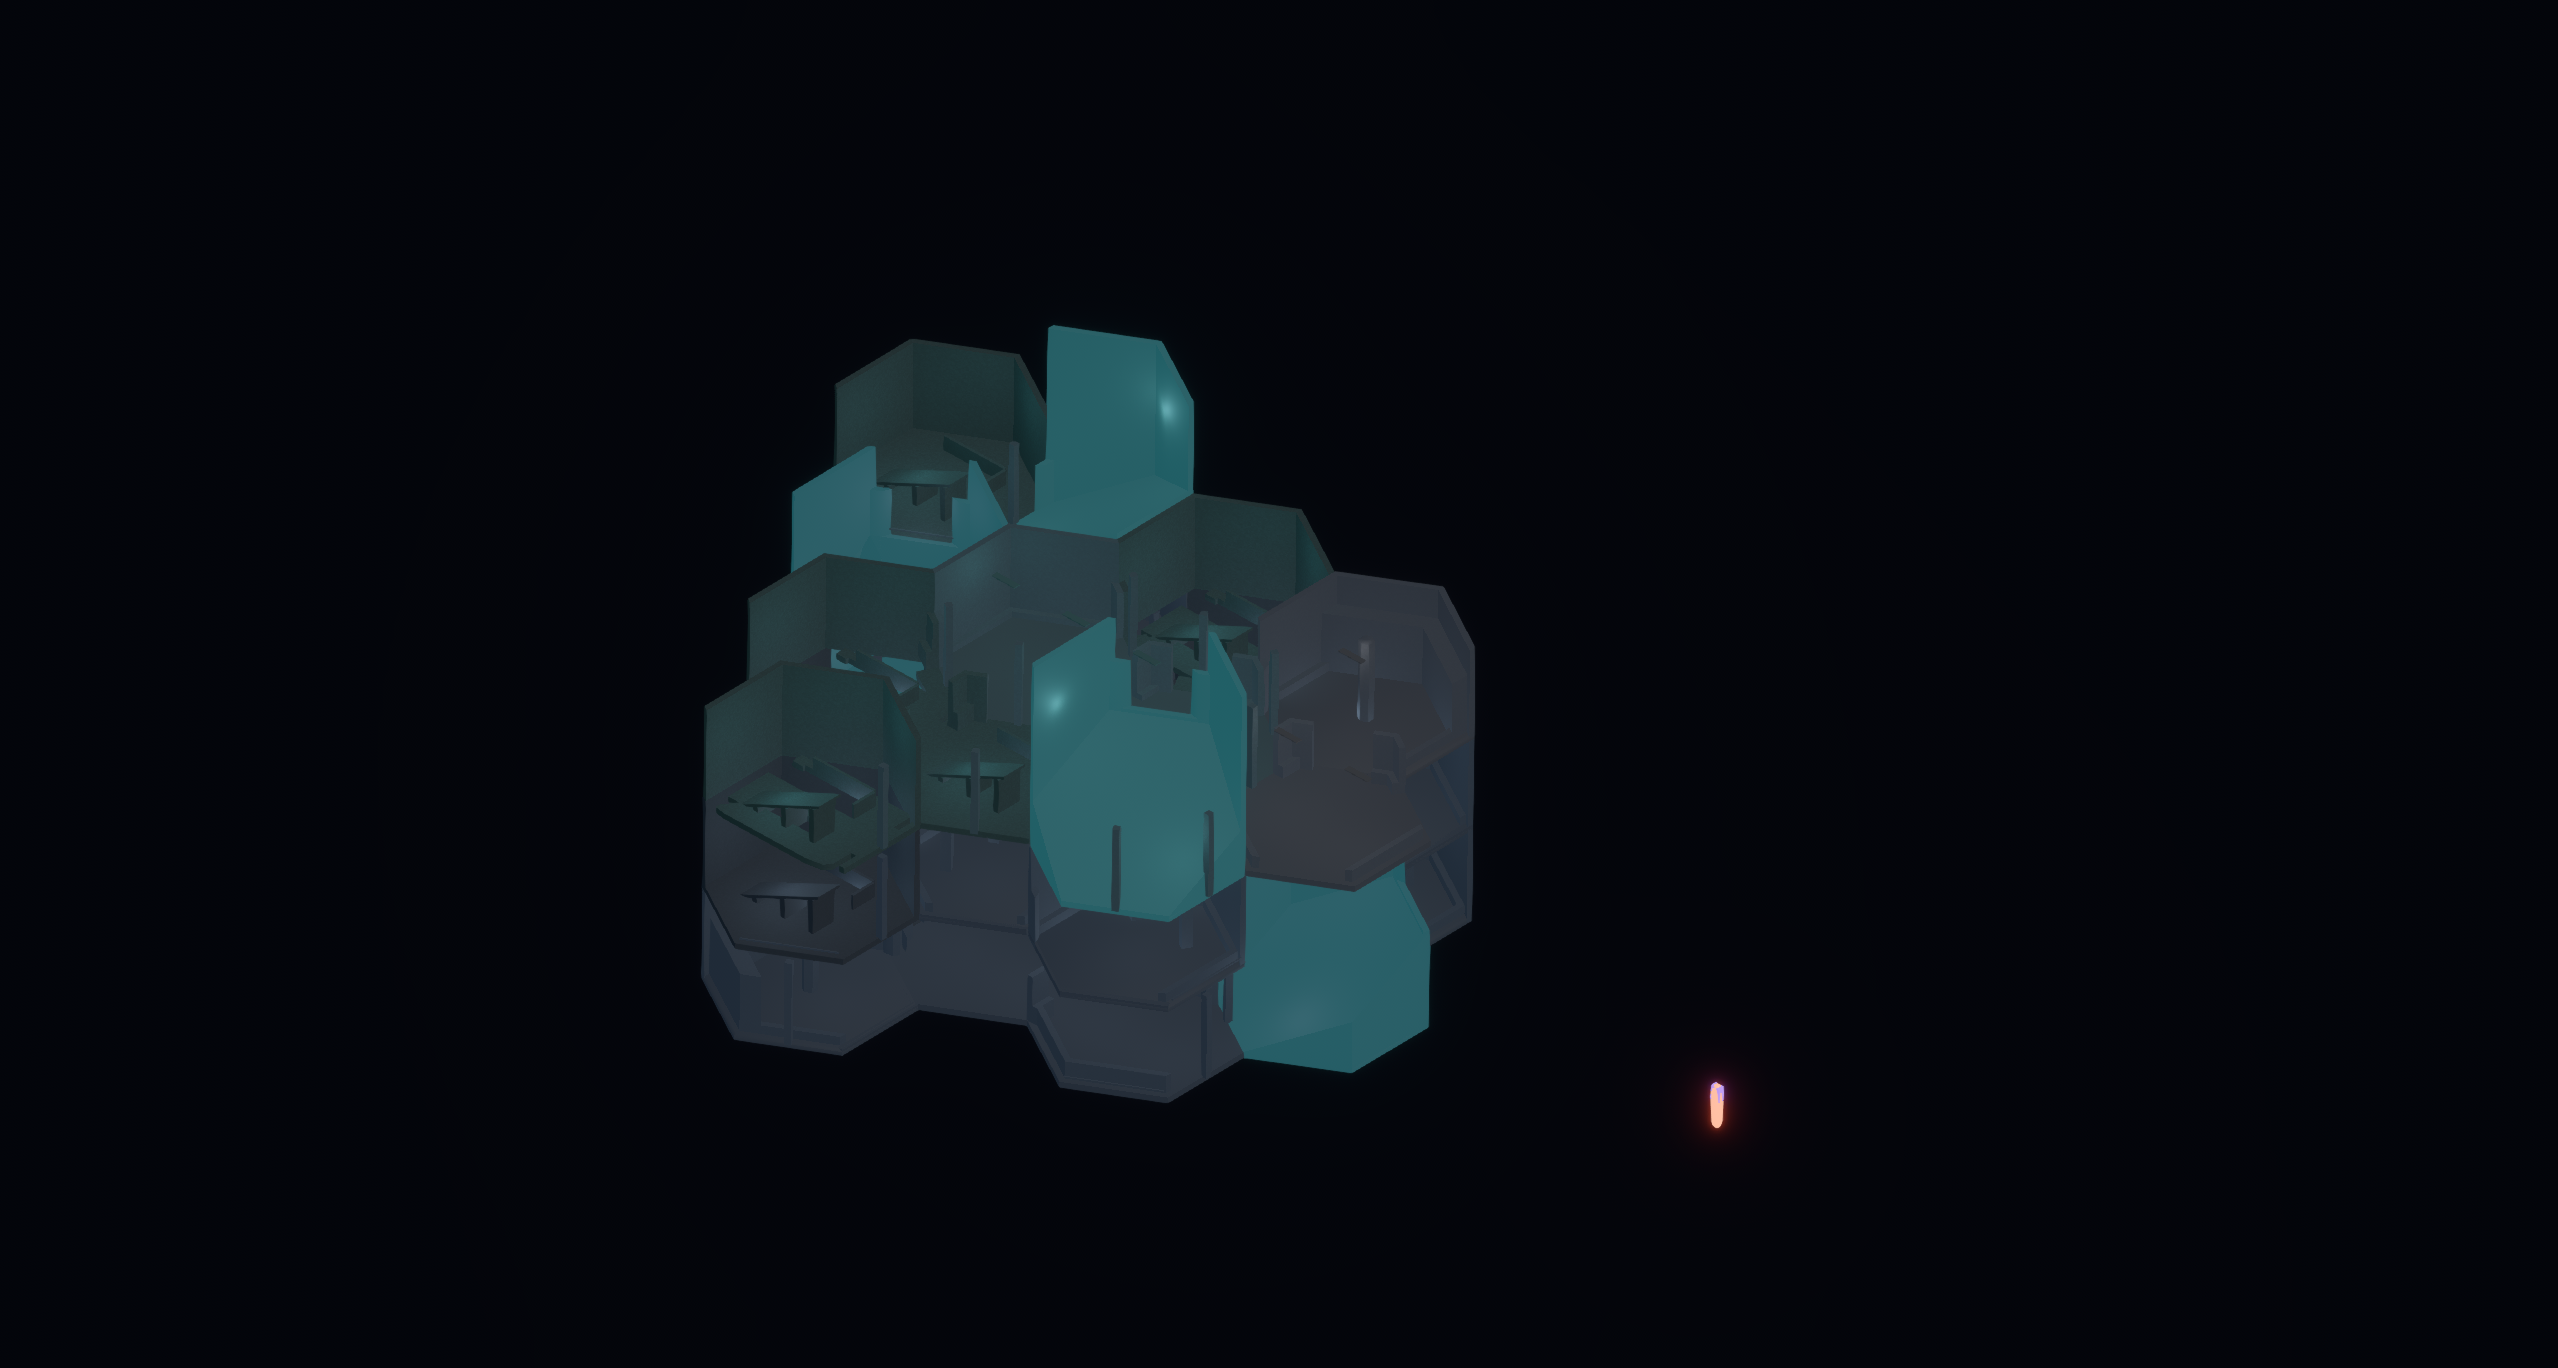
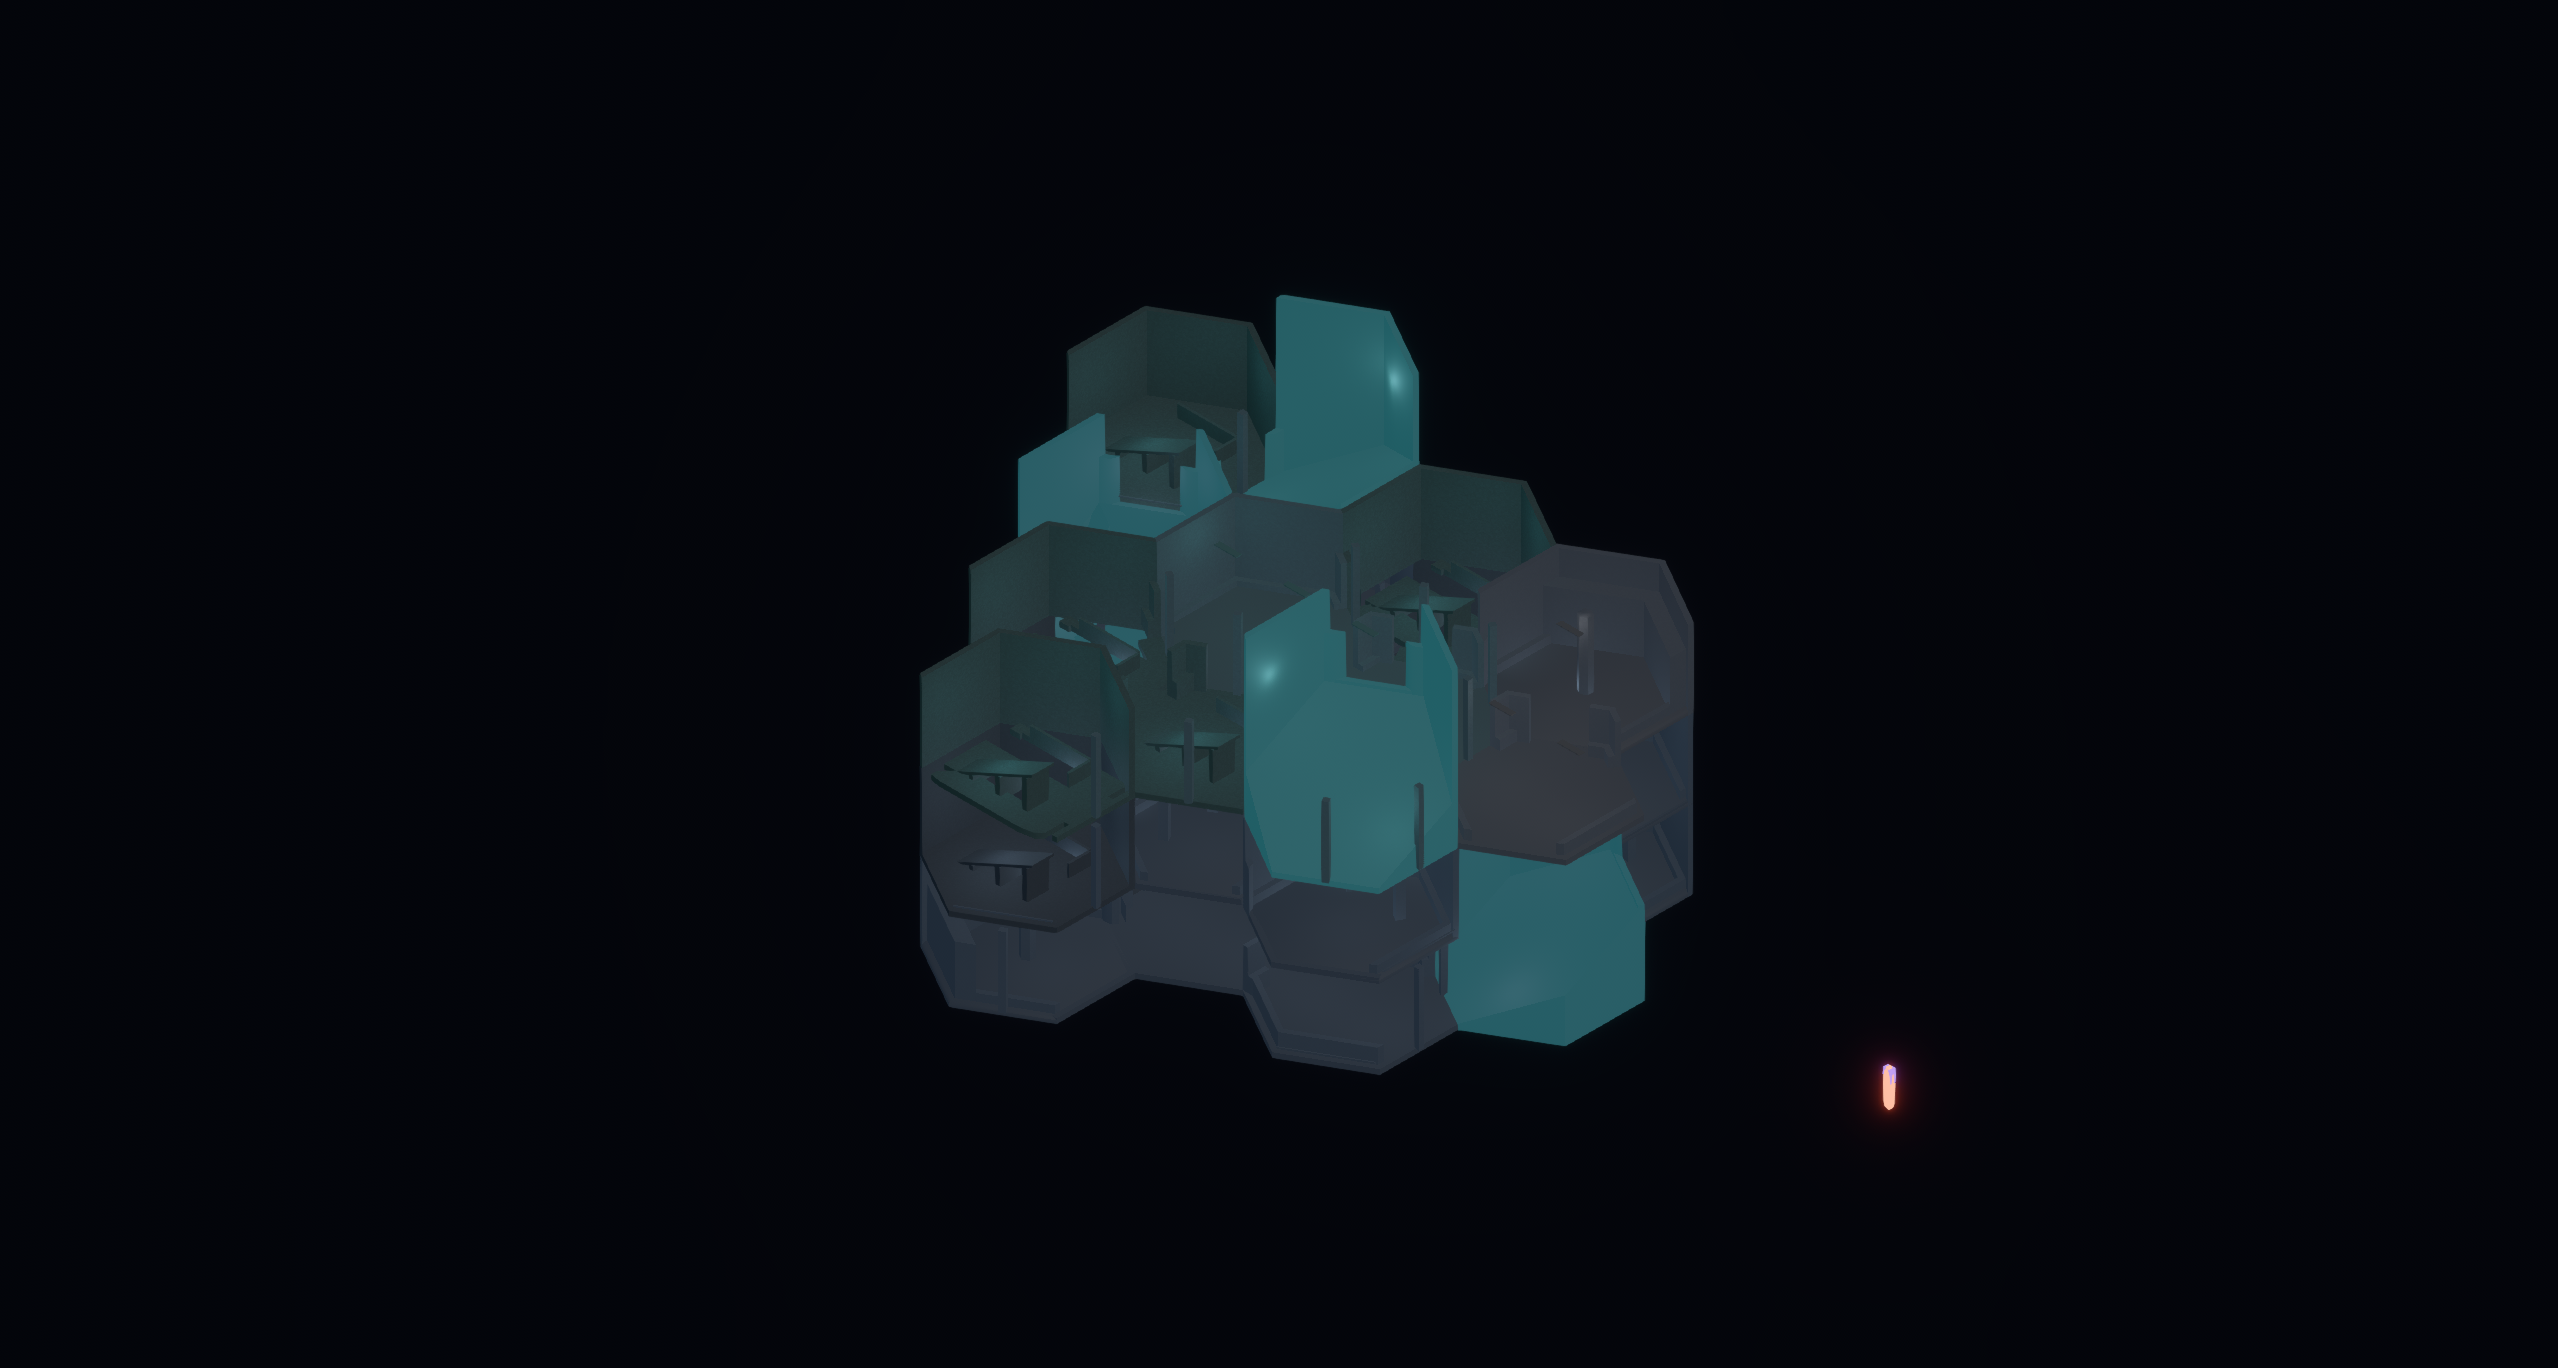
fix(hex): snap the camera into the overview instead of easing across the room
The facility sat off-centre because the camera was still travelling. Easing is
right for following a body and for turning a detent; it is wrong for the mode
change, where the play pose and the overview pose are hundreds of metres apart.
At 2.5 per second the camera was still ~50 m short a second after the overview
opened, and 50 m at this scale is most of a screen.

It now snaps on the way in and on the way out, and eases only within the
overview. The subject lands centred, which is what "follows the selected
player" is supposed to look like.

Evidence refreshed: docs/evidence/spectate/overview_tiles_cutaway.png.

clippy 0, 1727 passed.

Changed region(s): [[0.2471, 0.2149, 0.6794, 0.8289], [0.7103, 0.7675, 0.7721, 0.8289], [0.6486, 0.7675, 0.6794, 0.8289]]

diff --git a/game/src/hex_wfc/view/lighting.rs b/game/src/hex_wfc/view/lighting.rs
@@ -109,6 +109,7 @@ pub(in crate::hex_wfc) fn sync_camera(
     overview: Option<Res<super::spectate::SpectatorOverview>>,
     time: Res<Time>,
     mut camera: Query<&mut Transform, With<GameCam>>,
+    mut was_overviewing: Local<bool>,
 ) {
     let player = runtime.local();
     let Ok(mut transform) = camera.single_mut() else {
@@ -132,6 +133,7 @@ pub(in crate::hex_wfc) fn sync_camera(
     // camera - Bevy hands UI to the highest-order camera on the window and
     // ignores `is_active`, so a dormant one would take every overlay with it.
     let overview = overview.filter(|overview| overview.active);
+    let overviewing = overview.is_some();
     let iso = overview.as_ref().and_then(|overview| {
         super::spectate::framing_around(
             &runtime.match_state.facility,
@@ -172,7 +174,15 @@ pub(in crate::hex_wfc) fn sync_camera(
             CHASE_RESPONSE,
         )
     };
-    if transform.translation == Vec3::ZERO {
+    // Snap on the way in and out of the overview, ease within it.
+    //
+    // Easing is right for following a body and for turning a detent, and wrong
+    // for the mode change: the play pose and the overview pose are hundreds of
+    // metres apart, so at 2.5 per second the camera is still ~50 m short a
+    // second later - which reads as the whole facility sitting off-centre.
+    let switched = *was_overviewing != overviewing;
+    *was_overviewing = overviewing;
+    if switched || transform.translation == Vec3::ZERO {
         transform.translation = target_translation;
         transform.rotation = target_rotation;
         return;
